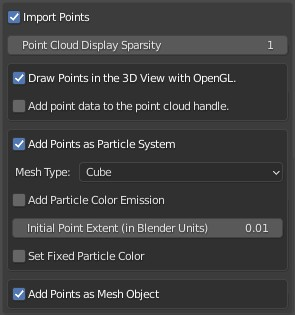
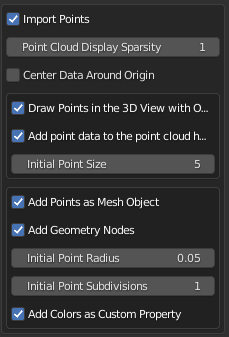
Adjust documentation to changes in point cloud representation

diff --git a/doc/sphinx/source/point_cloud.rst b/doc/sphinx/source/point_cloud.rst
@@ -2,11 +2,10 @@
 Visualization and Rendering
 ***************************
 
-Currently, this addon supports the following 3 point cloud visualization options:
+Currently, this addon supports the following two point cloud visualization options:
 
-* Representing the points with vertices of a Blender object
-* Visualizing the points with OpenGL (default)
-* Representing the points with a Blender particle system
+* Representing the points with a mesh object (using Blender's Geometry Nodes)
+* Visualizing the points with OpenGL
 
 
 .. image:: ../../images/import_point_options.png
@@ -15,20 +14,27 @@ Currently, this addon supports the following 3 point cloud visualization options
 
 Each option has different advantages / disadvantages.
 
-Option 1: Representing the points with vertices of a Blender object
-===================================================================
+Option 1: Representing the Points with a Mesh Object (using Blender's Geometry Nodes)
+=====================================================================================
 
-If selected, the addon adds a blender object with a vertex for each point in the point cloud. 
+If selected, the addon adds a blender object with a vertex for each point in the point cloud. The option :code:`Add Geometry Nodes` create several geometry nodes (see image below) that allow to render the point cloud with Eevee or Cycles.
 
-* Advantage: Low computational costs for visualization / rendering. 
-* Disadvantage: Contains no color information.
+.. image:: ../../images/geometry_nodes.png
+   :scale: 45 %
+   :align: center
+
+The :code:`point radius` and the :code:`point subdivision` can be adjusted after import using the :code:`Properties editor` (:code:`Shift + F7`).
+
+.. image:: ../../images/geometry_nodes_options.png
+   :scale: 100 %
+   :align: center
 
 Option 2: Visualizing and rendering the points with OpenGL
 ==========================================================
 
 If selected, the point cloud is shown in the Viewport using Blender's OpenGL API. That means, there is **no** Blender object representing the points in the point cloud. The pose (i.e. rotation and translation) of the object can be changed by adjusting the corresponding "anchor" (i.e. a Blender :code:`empty` object).
 
-* Advantage: Allows to show huge point clouds in the viewport - including color information. 
+* Advantage: Low computational costs for visualization.
 * Disadvantage: It is not possible to render these points with the render functions provided by Blender. However, this addon provides a panel to save/export OpenGL renderings of the points using an offscreen buffer or Blender's screenshot operator (see image below).
 
 .. image:: ../../images/opengl_panel_export.png
@@ -62,31 +68,5 @@ To ensure that the reconstruction results are not occluded by Blender panels go 
 After adjusting these options the viewport looks as follows.
 
 .. image:: ../../images/viewport_cleaned_annotations.jpeg
-   :scale: 45 %
-   :align: center
-
-
-Option 3: Representing the points with a particle system 
-========================================================
-
-If selected, the point cloud is represented with two objects.
-
-* One object associated with a particle system, which represents the structure of the point cloud. 
-* One object that defines the shape of the particles.
-
-The color of the particles is defined by a single material as shown in the image below.
-
-.. image:: ../../images/particle_system_material.jpg
-   :scale: 45 %
-   :align: center
-
-Note: The second input :code:`Value` in the :code:`Divide` node represents the number of particles in the point cloud.  
-
-* Advantage: Contains color information, which can be rendered using Cycles. 
-* Disadvantage: High computational costs for visualization / rendering, i.e. limited to medium-sized point clouds.
-
-Sometimes Blender draws boundaries around the particles of the point cloud. In order to improve the visualization of the point cloud one can disable :code:`Extras` under :code:`Overlays` in the :code:`3D view`. The following image shows the corresponding options. 
-
-.. image:: ../../images/disable_object_extras_overlay_annotation.jpg
    :scale: 45 %
    :align: center
